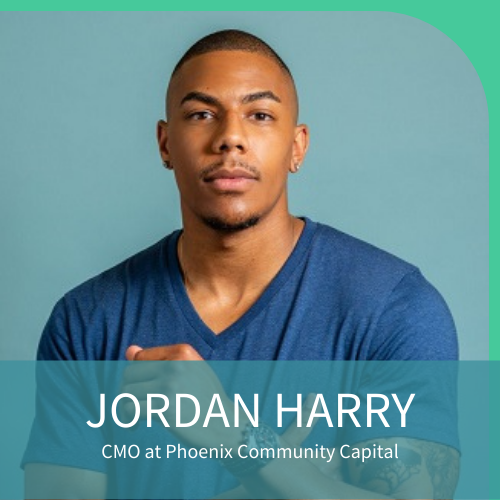
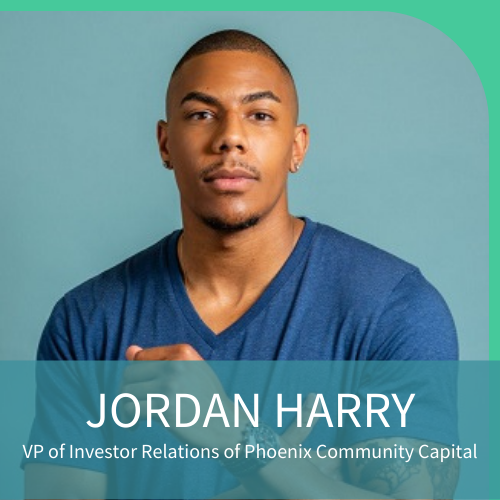
update jordan harry

Changed region(s): [[0.03, 0.87, 0.96, 0.93]]

diff --git a/index.html b/index.html
@@ -1127,7 +1127,7 @@
                                 <div class="team-desc">
                                     <h3>Jordan Harry</h3>
                                     <div class="small-border"></div>
-                                    <p class="lead">CMO at Phoenix Community Capital</p>
+                                    <p class="lead">VP of Investor Relations of Phoenix Community Capital</p>
                                 
                                 </div>
                             </div>
@@ -1987,7 +1987,7 @@
                                     <div class="team-desc">
                                         <h3>Jordan Harry</h3>
                                         <div class="small-border"></div>
-                                        <p class="lead">CMO at Phoenix Community Capital</p>
+                                        <p class="lead">VP of Investor Relations of Phoenix Community Capital</p>
                                     
                                     </div>
                                 </div>
